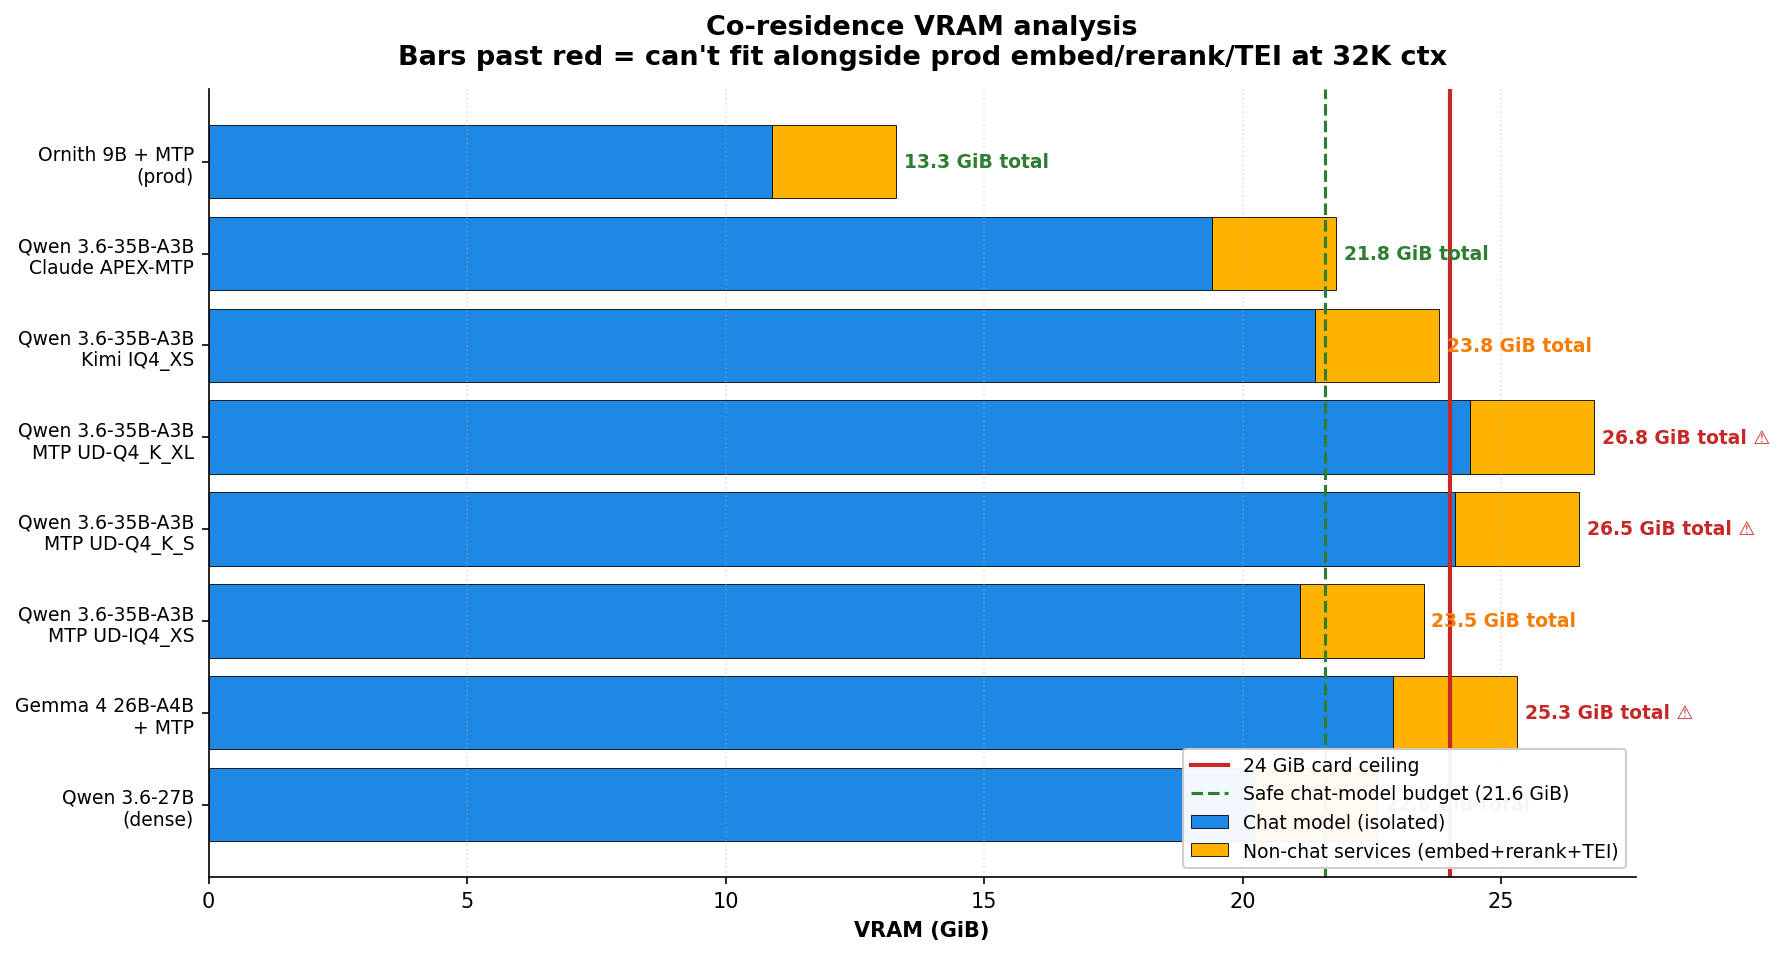
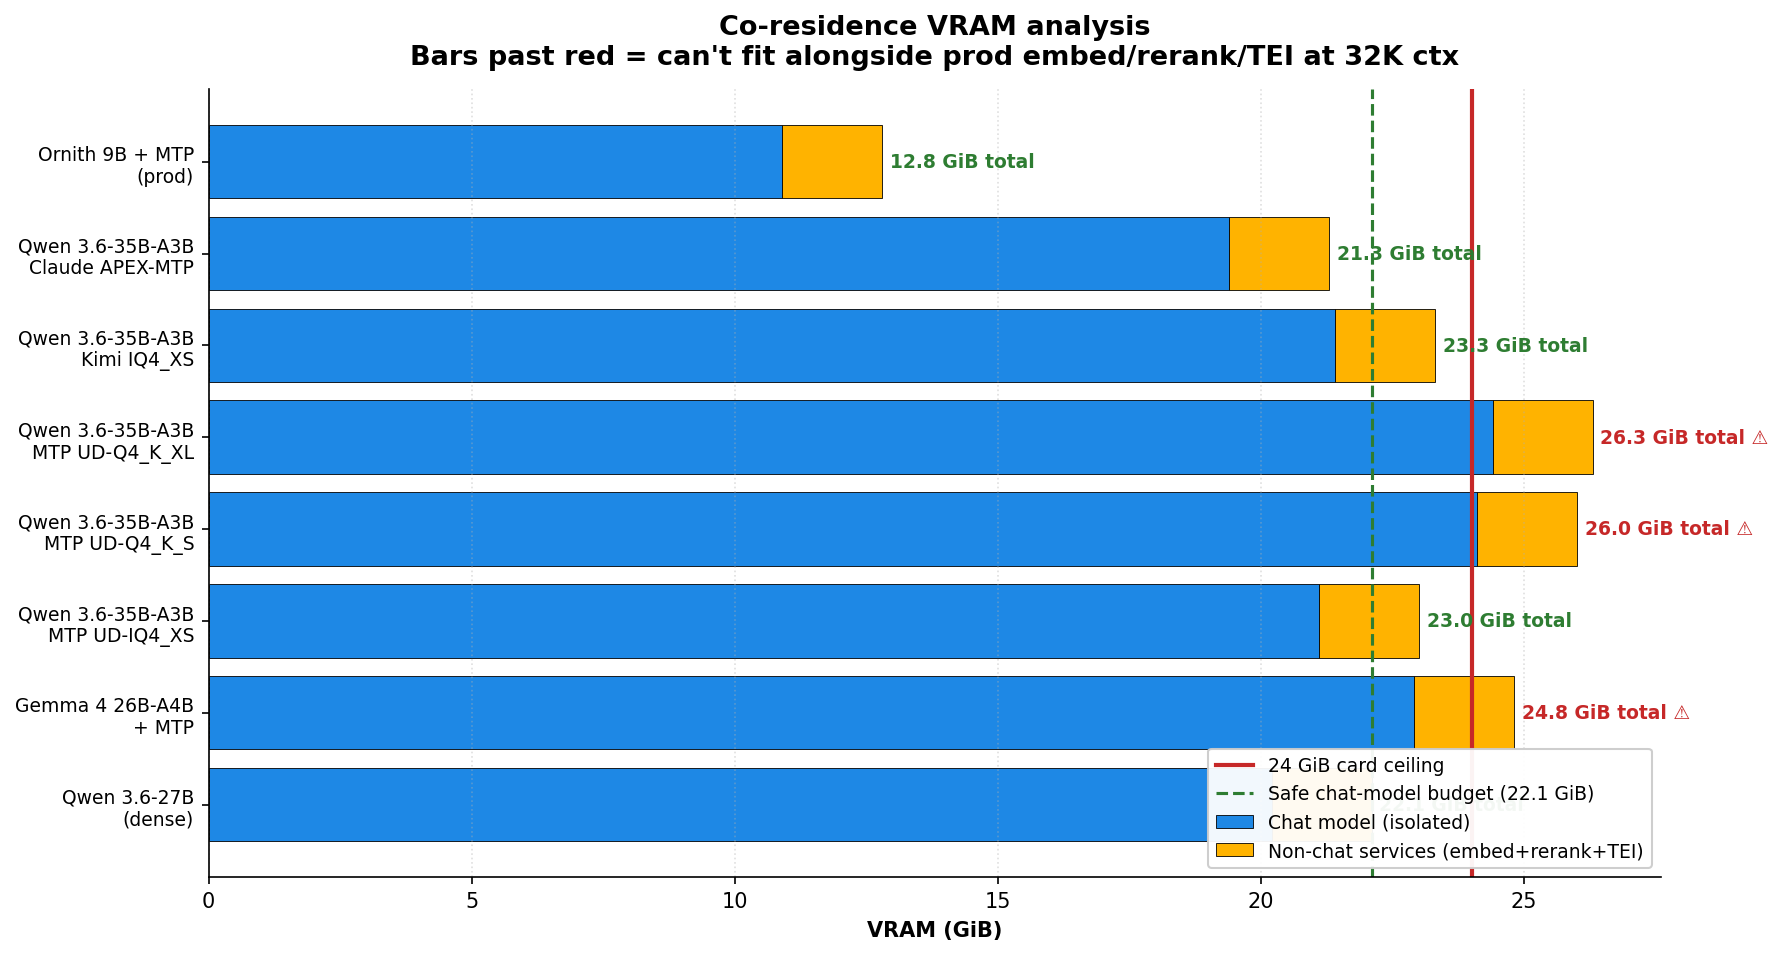
Retire llamacpp-rerank fallback + shrink co-residence overhead
TEI empty_cache patch demonstrated 10+ hours of stable 1.4 GiB VRAM
under real brain workload. llama.cpp SYCL rerank fallback container
retired: docker rm -f llamacpp-rerank. Launcher preserved on disk
for on-demand relaunch if TEI ever fails.

Impact on the VRAM budget:
- Non-chat overhead: 2.4 -> 1.9 GiB (-0.5 GiB)
- Available for chat model: 21.6 -> 22.1 GiB
- Ornith 9B prod headroom: 10.7 -> 11.2 GiB
- Qwen 3.6-35B-A3B Claude APEX-MTP Compact headroom: 2.2 -> 2.7 GiB
- Gemma 4 26B-A4B still doesn't fit co-residence (22.9 + 1.9 = 24.8)

Files updated:
- README production stack table (3 containers now)
- README VRAM co-residence budget section (~22.1 GiB chat model)
- models/production/bge-reranker-v2-m3.md (retirement note)
- charts/generate.py OVERHEAD constant 2.4 -> 1.9
- charts/vram_coresidence.png regenerated

diff --git a/charts/generate.py b/charts/generate.py
@@ -122,9 +122,9 @@ vram_models = [
     ("Gemma 4 26B-A4B\n+ MTP",                       22.9),
     ("Qwen 3.6-27B\n(dense)",                        20.2),
 ]
-OVERHEAD = 2.4  # embed 0.5 + rerank 0.5 + tei 1.4
+OVERHEAD = 1.9  # embed 0.5 + tei 1.4 (llama.cpp rerank retired 2026-07-19)
 CEILING = 24.0
-BUDGET = CEILING - OVERHEAD  # 21.6
+BUDGET = CEILING - OVERHEAD  # 22.1
 
 fig, ax = plt.subplots(figsize=(12, 6.5))
 names_v = [m[0] for m in vram_models]

diff --git a/README.md b/README.md
@@ -10,8 +10,9 @@ All numbers below are measured on the same physical card. The stack has shifted 
 |---|---|---|---|
 | 8002 | `llamacpp-sycl` | [Ornith 1.0 9B Q4_K_M + MTP drafter](models/production/ornith-1.0-9b.md) | chat + categorise + pi.dev agent (dual-role) |
 | 8004 | `llamacpp-embed` | [EmbeddingGemma-300M QAT Q8_0](models/production/embeddinggemma-300m.md) | brain embeddings |
-| 8007 | `llamacpp-rerank` | [bge-reranker-v2-m3 Q8_0](models/production/bge-reranker-v2-m3.md) | rerank fallback (llama.cpp path) |
-| 8008 | `tei-rerank` | [bge-reranker-v2-m3 fp16](models/production/bge-reranker-v2-m3.md) | rerank prod (TEI XPU-IPEX, 7–9× faster) |
+| 8008 | `tei-rerank` | [bge-reranker-v2-m3 fp16](models/production/bge-reranker-v2-m3.md) | rerank prod (TEI XPU-IPEX patched, no leak) |
+
+**Retired 2026-07-19:** `llamacpp-rerank` on `:8007` (llama.cpp SYCL bge-reranker path). Kept as fallback for the first day after TEI's empty_cache patch shipped; retired after TEI proved stable at 1.4 GiB flat over 10+ hours. Launcher preserved at `/data/llm/launch/start-llamacpp-rerank.sh` for on-demand relaunch if TEI ever fails.
 
 **Reasoning fallback:** [Gemma 4 26B-A4B Q4_K_M + MTP](models/production/gemma-4-26b-a4b.md) — launcher on disk, not running by default.
 
@@ -56,17 +57,18 @@ Decode = steady-state single-stream tok/s. Prefill measured at the context noted
 
 ## VRAM co-residence budget
 
-Isolated bench numbers are misleading — production has to fit all services simultaneously. **Non-chat steady-state stack**:
+Isolated bench numbers are misleading — production has to fit all services simultaneously. **Non-chat steady-state stack** (as of 2026-07-19, after llama.cpp rerank retirement):
 
 | Container | VRAM steady |
 |---|---|
 | llamacpp-embed (EmbeddingGemma-300M) | 0.5 GiB |
-| llamacpp-rerank (bge-reranker fallback) | 0.5 GiB idle (3-4 active) |
-| tei-rerank (patched image) | 1.4 GiB |
-| **Non-chat total** | **~2.4 GiB** |
-| **Available for chat model** | **~21.6 GiB / 24 GiB** |
+| tei-rerank (patched image, no leak) | 1.4 GiB |
+| **Non-chat total** | **~1.9 GiB** |
+| **Available for chat model** | **~22.1 GiB / 24 GiB** |
 
-Any candidate that reports isolated VRAM > 21.6 GiB either won't fit alongside prod, or needs a smaller quant / context / rerank-eviction trade-off. See individual model pages for per-candidate co-residence analysis.
+Any candidate that reports isolated VRAM > 22.1 GiB either won't fit alongside prod, or needs a smaller quant / context / eviction trade-off. See individual model pages for per-candidate co-residence analysis.
+
+**Historical (pre-2026-07-19)**: budget was 21.6 GiB while `llamacpp-rerank` fallback ran on `:8007`. Freed 0.5 GiB steady when retired; nothing above the ceiling suddenly fits, but 35B-A3B candidates have marginally more room, and Qwen 3.6-35B-A3B Claude APEX-MTP Compact now co-resides with **2.7 GiB headroom** instead of 2.2.
 
 ## Key findings
 

diff --git a/models/production/bge-reranker-v2-m3.md b/models/production/bge-reranker-v2-m3.md
@@ -1,6 +1,6 @@
 # bge-reranker-v2-m3 — Production rerank
 
-**Status:** Production on **TEI XPU-IPEX (`:8008`)**; llama.cpp SYCL (`:8007`) retained as fallback.
+**Status:** Production on **TEI XPU-IPEX (`:8008`)**. llama.cpp SYCL fallback on `:8007` **retired 2026-07-19** after TEI's empty_cache patch demonstrated 10+ hours of steady 1.4 GiB VRAM under real brain traffic. Launcher preserved at `/data/llm/launch/start-llamacpp-rerank.sh` for on-demand relaunch if TEI ever fails.
 **HF:** [`BAAI/bge-reranker-v2-m3`](https://huggingface.co/BAAI/bge-reranker-v2-m3)
 **Launchers:** [`start-tei-rerank.sh`](../../configs/launchers/start-tei-rerank.sh) (prod, :8008) · [`start-llamacpp-rerank.sh`](../../configs/launchers/start-llamacpp-rerank.sh) (fallback, :8007)
 
@@ -36,7 +36,7 @@ docker run -d --name tei-rerank \
 
 **VRAM leak — fixed 2026-07-19.** Original `tei:xpu-ipex-fix` image leaked ~840 MB/hour under brain workload (2.5 → 10.9 GiB in 10 hours). Root cause: IPEX allocator holds intermediate tensors in a caching pool and TEI never called `torch.xpu.empty_cache()` between batches. Replaced with [`tei:xpu-ipex-nomemleak`](../../configs/images/tei-xpu-ipex-nomemleak/README.md) which adds the release call to `ClassificationModel.predict()` and the gRPC error path. **Confirmed working after 9 hours of real brain traffic**: VRAM 1.43 GiB flat vs unpatched projection of ~10 GiB. Fix validated empirically.
 
-### 2. llama.cpp SYCL on `:8007` (fallback)
+### 2. llama.cpp SYCL on `:8007` (retired 2026-07-19; on-demand fallback only)
 
 | Metric | Value |
 |---|---|